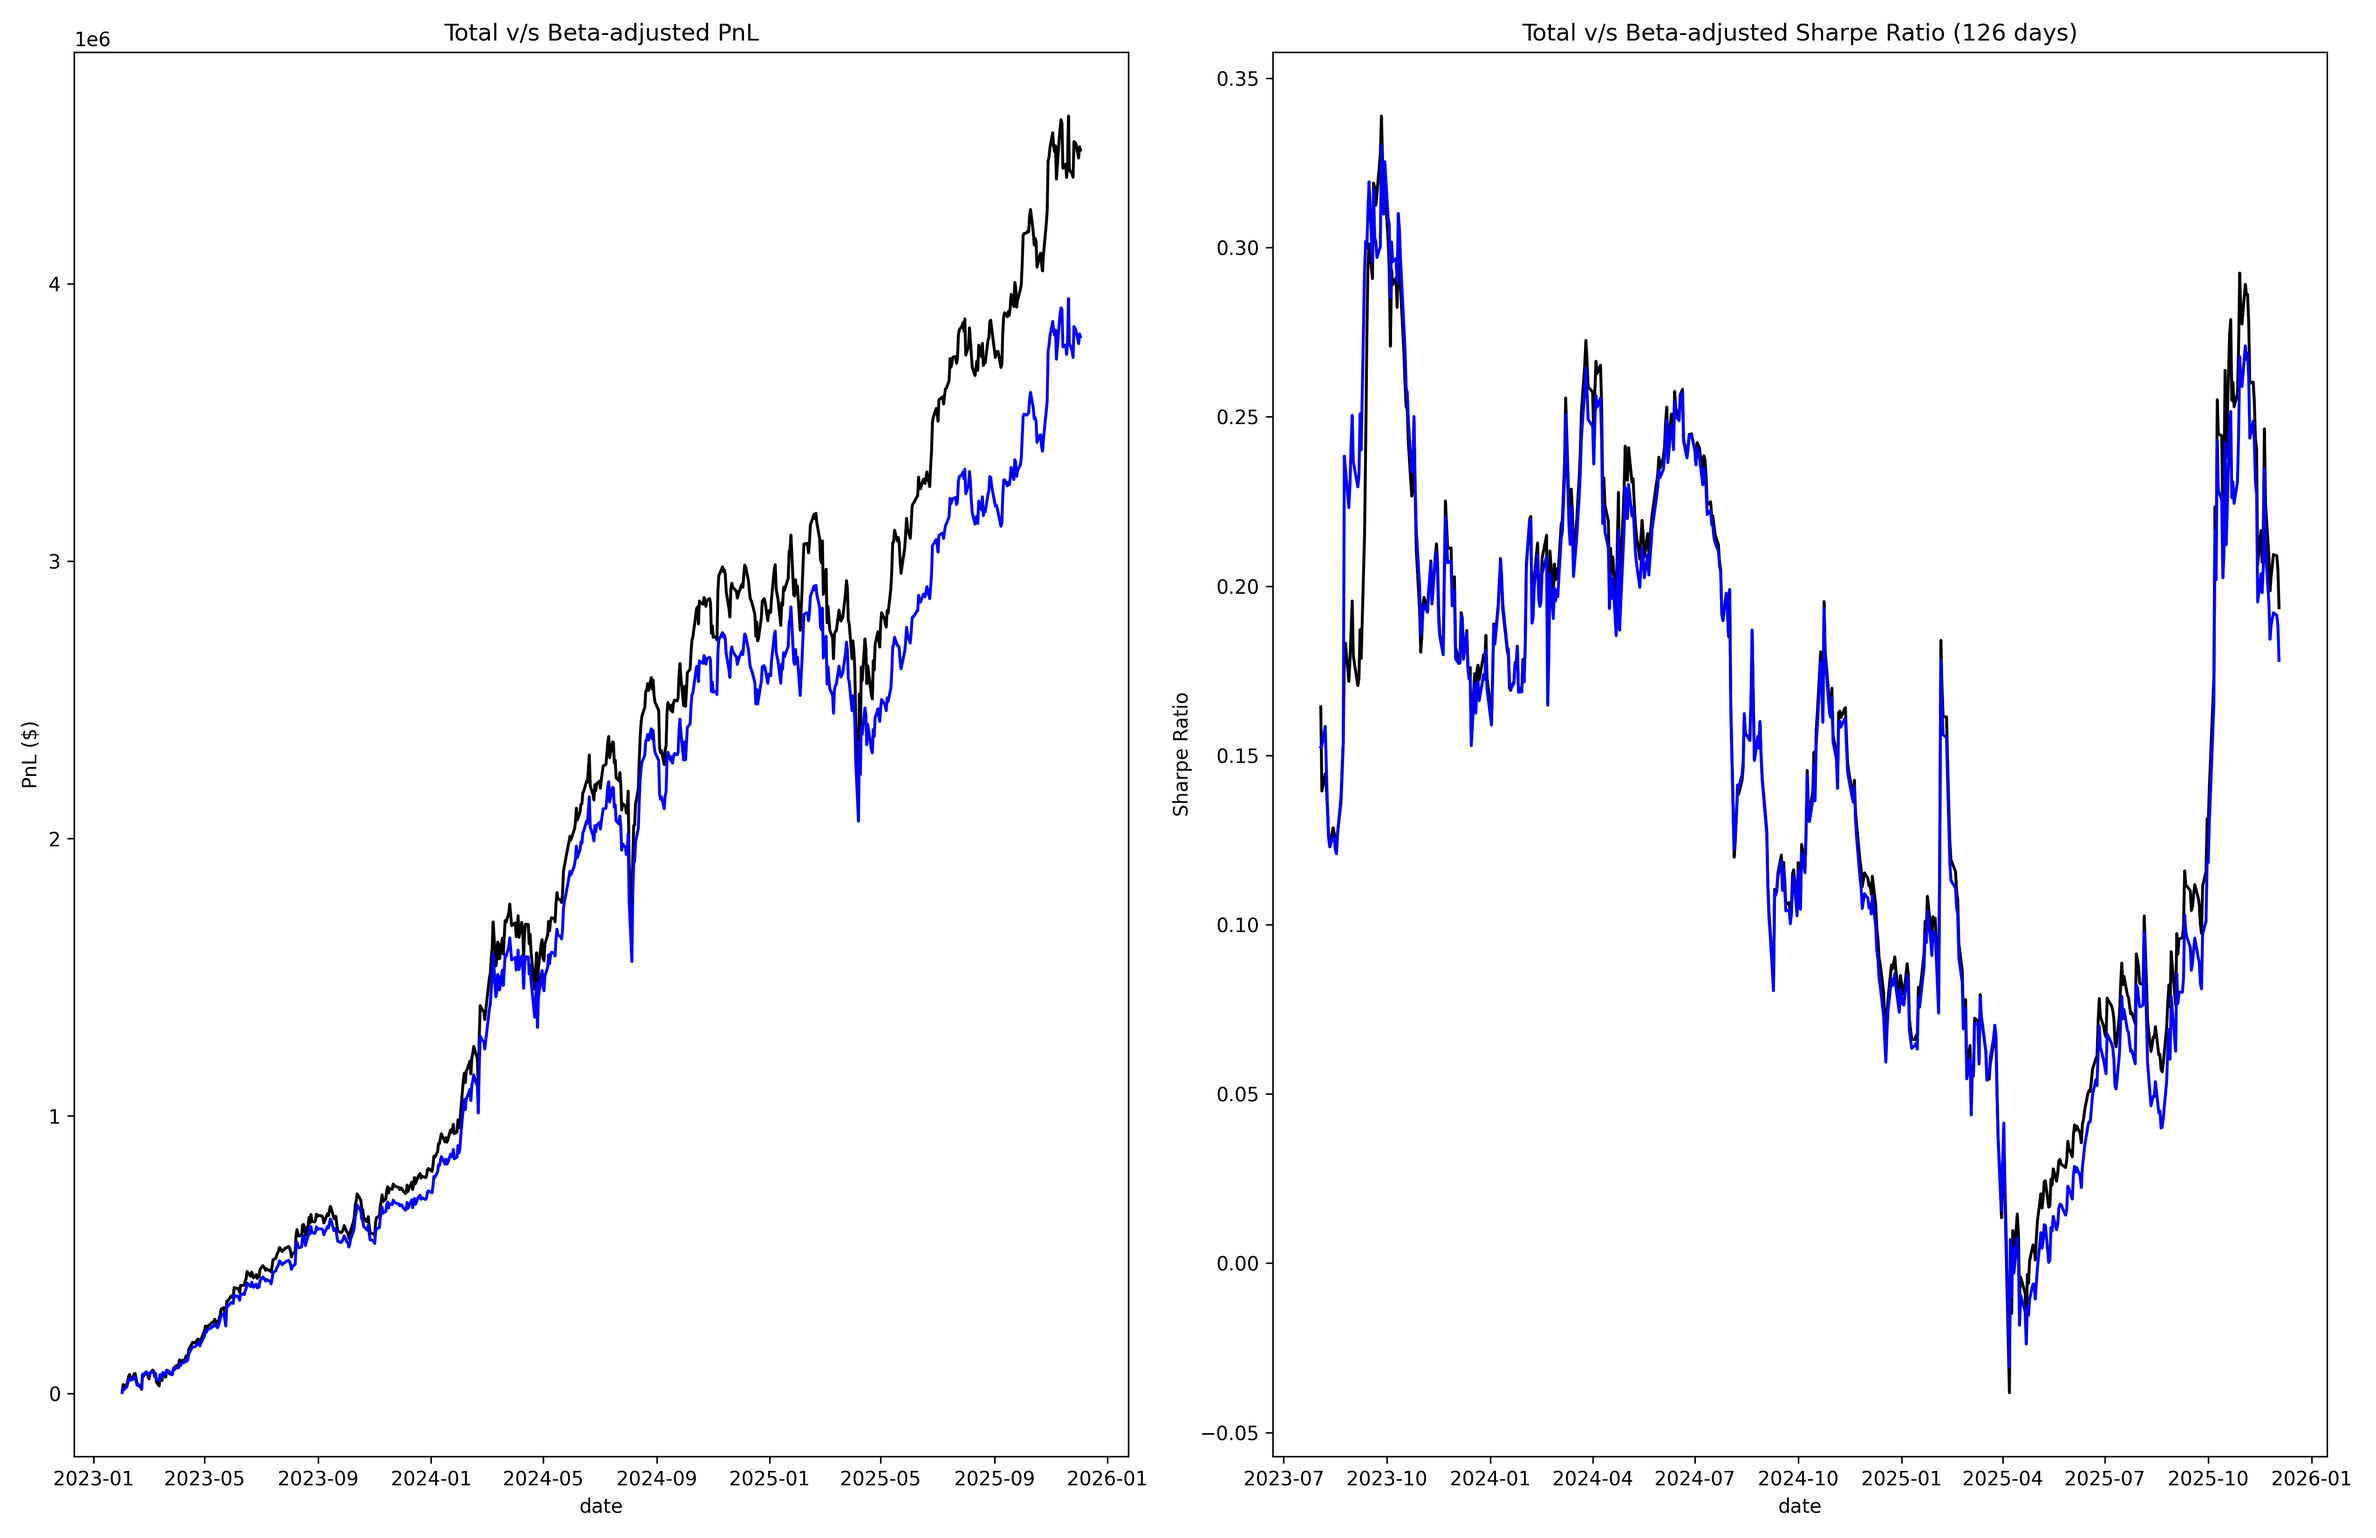
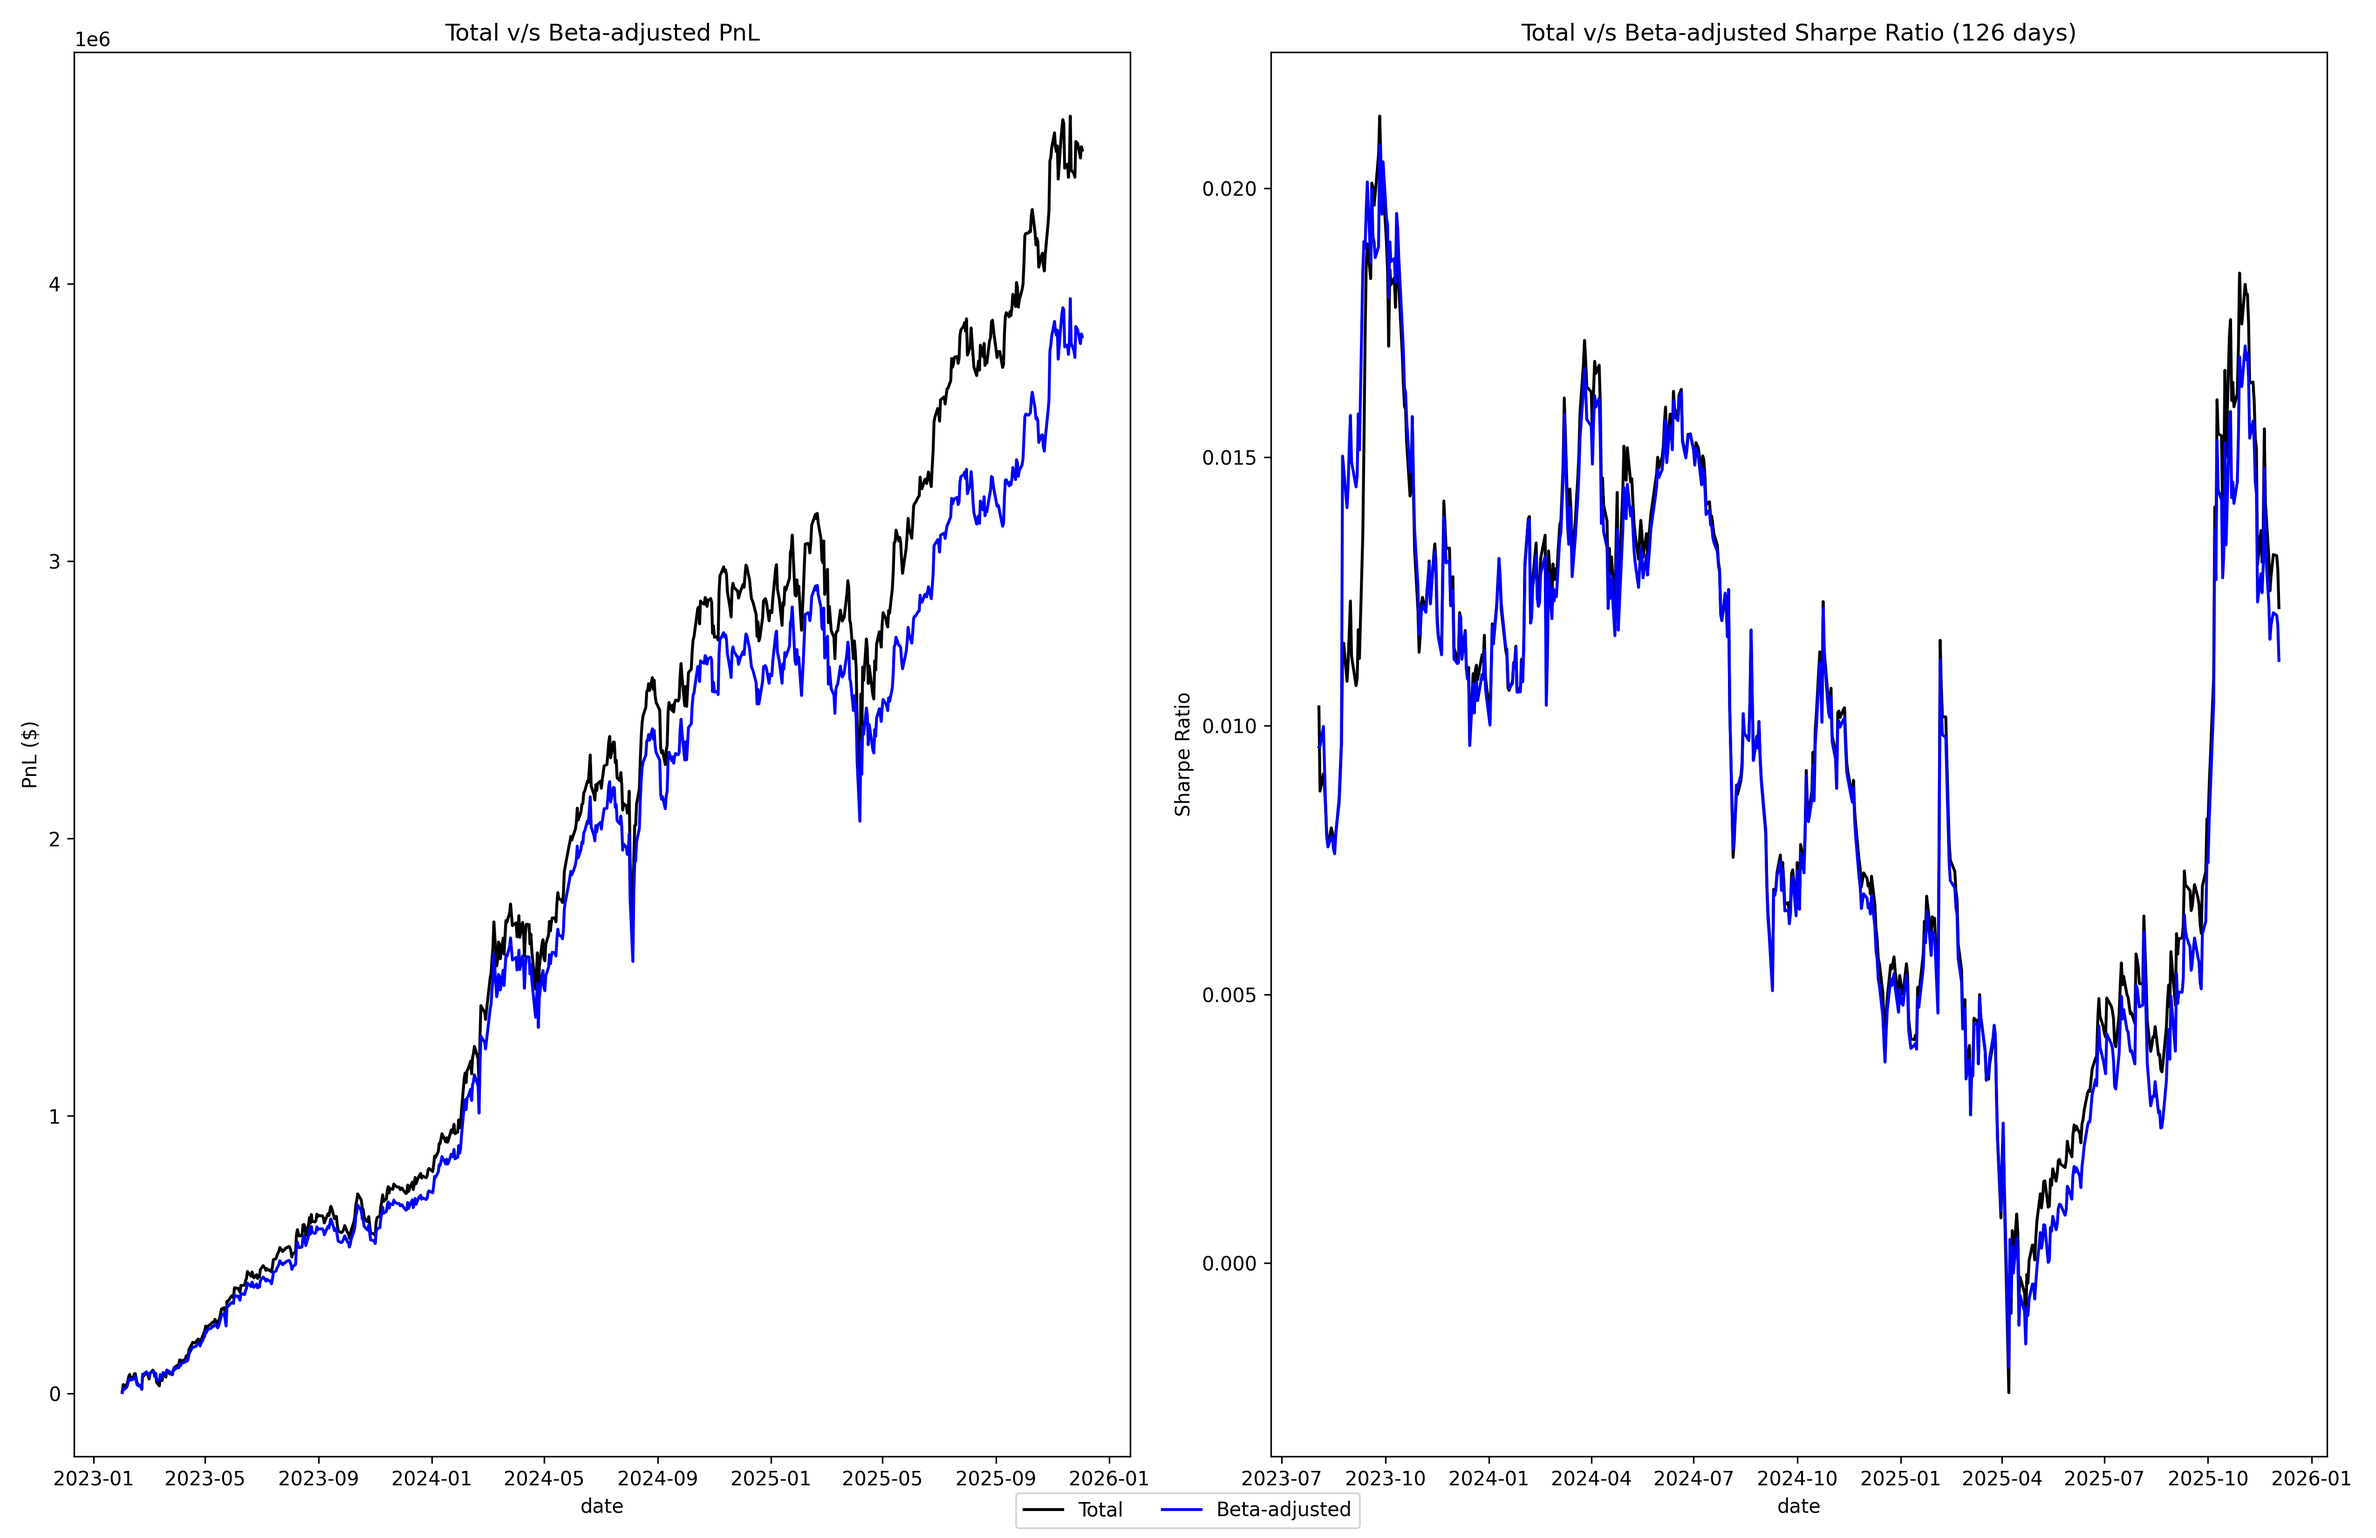
Market comparison

diff --git a/apps/gen_market_comparison.py b/apps/gen_market_comparison.py
@@ -8,8 +8,8 @@ import argparse
 
 import pandas as pd
 from matplotlib import pyplot as plt
+import numpy as np
 
-from src import constants
 from src.portfolio_eval import security_contrib
 
 
@@ -24,10 +24,24 @@ def parse_args() -> argparse.Namespace:
     )
 
     parser.add_argument(
+        "--portfolio-fname",
+        type=str,
+        help="Path to load the input CSV file.",
+        default="ddqn_portfolio.parquet",
+    )
+
+    parser.add_argument(
         "--output-dir",
         type=str,
-        help="Path to save the output CSV file.",
+        help="Path to save the output PNG file.",
         default="../presentation/figures",
+    )
+
+    parser.add_argument(
+        "--output-fname",
+        type=str,
+        help="Path to save the output PNG file.",
+        default="market_comparison.png",
     )
 
     return parser.parse_args()
@@ -36,13 +50,7 @@ def parse_args() -> argparse.Namespace:
 def main() -> None:
     args = parse_args()
 
-    positions = pd.read_csv(f"{args.input_dir}/test_portfolio_weights.csv")
-    positions["date"] = pd.to_datetime(positions["date"])
-    equity_curve = pd.read_csv(f"{args.input_dir}/test_equity_curve.csv")
-    equity_curve["date"] = pd.to_datetime(equity_curve["date"])
-    positions = positions.merge(equity_curve, on="date")
-    for ticker in constants.TICKERS:
-        positions = positions.rename(columns={ticker: f"weight_{ticker}"})
+    positions = pd.read_parquet(f"{args.input_dir}/{args.portfolio_fname}")
 
     stock_rets = pd.read_parquet(f"{args.input_dir}/stock_rets.parquet")
     beta_adj_rets = pd.read_parquet(f"{args.input_dir}/beta_adj_rets.parquet")
@@ -55,8 +63,16 @@ def main() -> None:
     total_port_rets = total_pnl.cumsum().pct_change()
     beta_adj_port_rets = beta_adj_pnl.cumsum().pct_change()
 
-    beta_adj_port_sharpe = beta_adj_port_rets.rolling(126).mean() / beta_adj_port_rets.rolling(126).std()
-    total_port_sharpe = total_port_rets.rolling(126).mean() / total_port_rets.rolling(126).std()
+    beta_adj_port_sharpe = (
+        beta_adj_port_rets.rolling(126).mean()
+        / beta_adj_port_rets.rolling(126).std()
+        / np.sqrt(252)
+    )
+    total_port_sharpe = (
+        total_port_rets.rolling(126).mean()
+        / total_port_rets.rolling(126).std()
+        / np.sqrt(252)
+    )
 
     fig, ax = plt.subplots(1, 2, figsize=(17, 11))
 
@@ -74,10 +90,46 @@ def main() -> None:
     ax[1].set_title("Total v/s Beta-adjusted Sharpe Ratio (126 days)")
 
     handles, labels = ax[0].get_legend_handles_labels()
-    fig.legend(handles, labels, loc="upper left", bbox_to_anchor=(1, 1), ncol=1)
+    fig.legend(handles, labels, loc="lower center", ncol=2)
 
     fig.tight_layout()
-    fig.savefig(f"{args.output_dir}/market_comparison.png", dpi=300)
+    fig.savefig(f"{args.output_dir}/{args.output_fname}", dpi=300)
+
+    max_dd_total = (
+        total_port_rets.cumsum() - total_port_rets.cumsum().cummax()
+    ).min() * -1
+    calmar_total = total_port_rets.cumsum().iloc[-1] / np.sqrt(252) / max_dd_total
+
+    max_dd_ba = (
+        beta_adj_port_rets.cumsum() - beta_adj_port_rets.cumsum().cummax()
+    ).min() * -1
+    calmar_ba = beta_adj_port_rets.cumsum().iloc[-1] / np.sqrt(252) / max_dd_ba
+
+    df = pd.DataFrame(
+        [
+            {
+                "Space": "Total",
+                "PnL (\\$)": total_pnl.sum(),
+                "Max Drawdown (\\%)": max_dd_total,
+                "Calmar Ratio": calmar_total,
+                "Sharpe Ratio": total_port_rets.mean()
+                / total_port_rets.std()
+                / np.sqrt(252),
+            },
+            {
+                "Space": "Beta-adjusted",
+                "PnL (\\$)": beta_adj_pnl.sum(),
+                "Max Drawdown (\\%)": max_dd_ba,
+                "Calmar Ratio": calmar_ba,
+                "Sharpe Ratio": beta_adj_port_rets.mean()
+                / beta_adj_port_rets.std()
+                / np.sqrt(252),
+            },
+        ]
+    )
+
+    df = df.set_index("Space").T
+    print(df.to_latex(float_format="%.3f"))
 
 
 if __name__ == "__main__":

diff --git a/apps/visualize_security_contrib.py b/apps/visualize_security_contrib.py
@@ -7,7 +7,6 @@ import argparse
 from matplotlib import pyplot as plt
 import pandas as pd
 
-from src import constants
 from src.portfolio_eval import security_contrib as sc
 
 
@@ -22,10 +21,24 @@ def parse_args() -> argparse.Namespace:
     )
 
     parser.add_argument(
+        "--portfolio-fname",
+        type=str,
+        help="Path to load the input CSV file.",
+        default="ddqn_portfolio.parquet",
+    )
+
+    parser.add_argument(
         "--output-dir",
         type=str,
-        help="Path to save the output CSV file.",
+        help="Path to save the output PNG file.",
         default="../presentation/figures",
+    )
+
+    parser.add_argument(
+        "--output-fname",
+        type=str,
+        help="Path to save the output PNG file.",
+        default="vol_contrib.png",
     )
 
     return parser.parse_args()
@@ -98,14 +111,7 @@ def visualize_pnl_contrib(
 def main() -> None:
     args = parse_args()
 
-    positions = pd.read_csv(f"{args.input_dir}/test_portfolio_weights.csv")
-    positions["date"] = pd.to_datetime(positions["date"])
-    equity_curve = pd.read_csv(f"{args.input_dir}/test_equity_curve.csv")
-    equity_curve["date"] = pd.to_datetime(equity_curve["date"])
-    positions = positions.merge(equity_curve, on="date")
-    for ticker in constants.TICKERS:
-        positions = positions.rename(columns={ticker: f"weight_{ticker}"})
-
+    positions = pd.read_parquet(f"{args.input_dir}/{args.portfolio_fname}")
     stock_rets = pd.read_parquet(f"{args.input_dir}/stock_rets.parquet")
 
     fig = plt.Figure(figsize=(17, 11))
@@ -120,7 +126,7 @@ def main() -> None:
     visualize_pnl_contrib(positions, stock_rets, ax2)
 
     fig.tight_layout()
-    fig.savefig("../presentation/figures/vol_contrib.png", dpi=300)
+    fig.savefig(f"{args.output_dir}/{args.output_fname}", dpi=300)
 
 
 if __name__ == "__main__":
